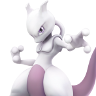
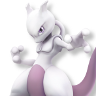
second DLC characters, drop shadow, removed big
added lucas, roy, ryu and added drop shadow to their renders to fit with
the 3DS rips

diff --git a/tier/index.html b/tier/index.html
@@ -41,7 +41,7 @@
 		Click and drag on the images to rearrange them across the different tiers. You can edit the name of each tier by clicking on the letter to the left. By default, there are 7 tiers, but you can disable them as you wish by clicking on the corresponding checkboxes above. If you disable a tier when characters are still in it, they will be moved to the character box below. Check out the other apps at <a href="../">Smash Apps</a>.
 	</div>
 	<div id="char" class="sort">
-		<img src="img/mario.png"><img src="img/luigi.png"><img src="img/peach.png"><img src="img/bowser.png"><img src="img/bowserjr.png"><img src="img/rosalina.png"><img src="img/drmario.png"><img src="img/yoshi.png"><img src="img/wario.png"><img src="img/gameandwatch.png"><img src="img/donkeykong.png"><img src="img/diddykong.png"><img src="img/link.png"><img src="img/zelda.png"><img src="img/sheik.png"><img src="img/ganon.png"><img src="img/toonlink.png"><img src="img/samus.png"><img src="img/zerosuit.png"><img src="img/pit.png"><img src="img/palutena.png"><img src="img/darkpit.png"><img src="img/marth.png"><img src="img/ike.png"><img src="img/robin.png"><img src="img/lucina.png"><img src="img/kirby.png"><img src="img/dedede.png"><img src="img/metaknight.png"><img src="img/littlemac.png"><img src="img/fox.png"><img src="img/falco.png"><img src="img/pikachu.png"><img src="img/charizard.png"><img src="img/lucario.png"><img src="img/jigglypuff.png"><img src="img/greninja.png"><img src="img/duckhunt.png"><img src="img/rob.png"><img src="img/ness.png"><img src="img/captainfalcon.png"><img src="img/villager.png"><img src="img/olimar.png"><img src="img/wiifit.png"><img src="img/shulk.png"><img src="img/megaman.png"><img src="img/pacman.png"><img src="img/sonic.png"><img src="img/miibrawl.png"><img src="img/miigun.png"><img src="img/miisword.png"><img src="img/mewtwo.png">
+		<img src="img/mario.png"><img src="img/luigi.png"><img src="img/peach.png"><img src="img/bowser.png"><img src="img/bowserjr.png"><img src="img/rosalina.png"><img src="img/drmario.png"><img src="img/yoshi.png"><img src="img/wario.png"><img src="img/gameandwatch.png"><img src="img/donkeykong.png"><img src="img/diddykong.png"><img src="img/link.png"><img src="img/zelda.png"><img src="img/sheik.png"><img src="img/ganon.png"><img src="img/toonlink.png"><img src="img/samus.png"><img src="img/zerosuit.png"><img src="img/pit.png"><img src="img/palutena.png"><img src="img/darkpit.png"><img src="img/marth.png"><img src="img/ike.png"><img src="img/robin.png"><img src="img/lucina.png"><img src="img/kirby.png"><img src="img/dedede.png"><img src="img/metaknight.png"><img src="img/littlemac.png"><img src="img/fox.png"><img src="img/falco.png"><img src="img/pikachu.png"><img src="img/charizard.png"><img src="img/lucario.png"><img src="img/jigglypuff.png"><img src="img/greninja.png"><img src="img/duckhunt.png"><img src="img/rob.png"><img src="img/ness.png"><img src="img/captainfalcon.png"><img src="img/villager.png"><img src="img/olimar.png"><img src="img/wiifit.png"><img src="img/shulk.png"><img src="img/megaman.png"><img src="img/pacman.png"><img src="img/sonic.png"><img src="img/miibrawl.png"><img src="img/miigun.png"><img src="img/miisword.png"><img src="img/mewtwo.png"><img src="img/lucas.png"><img src="img/roy.png"><img src="img/ryu.png">
 	</div>
 	<script src="https://ajax.googleapis.com/ajax/libs/jquery/1.11.1/jquery.min.js"></script>
 	<script src="jquery-ui.min.js"></script>
